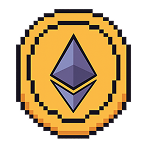
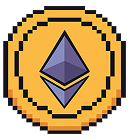
chore(ui): replace asset

diff --git a/app/api/users/[address]/balance/route.ts b/app/api/users/[address]/balance/route.ts
@@ -6,9 +6,10 @@ const SERVER_URL =
 
 export async function GET(
   _: Request,
-  { params: { address } }: { params: { address: string } }
+  { params }: { params: Promise<{ address: string }> }
 ) {
   try {
+    const { address } = await params;
     console.log("Fetching balance for address:", address);
     const res = await API.get(
       `${SERVER_URL}/api/users/balance?address=${address}`,
